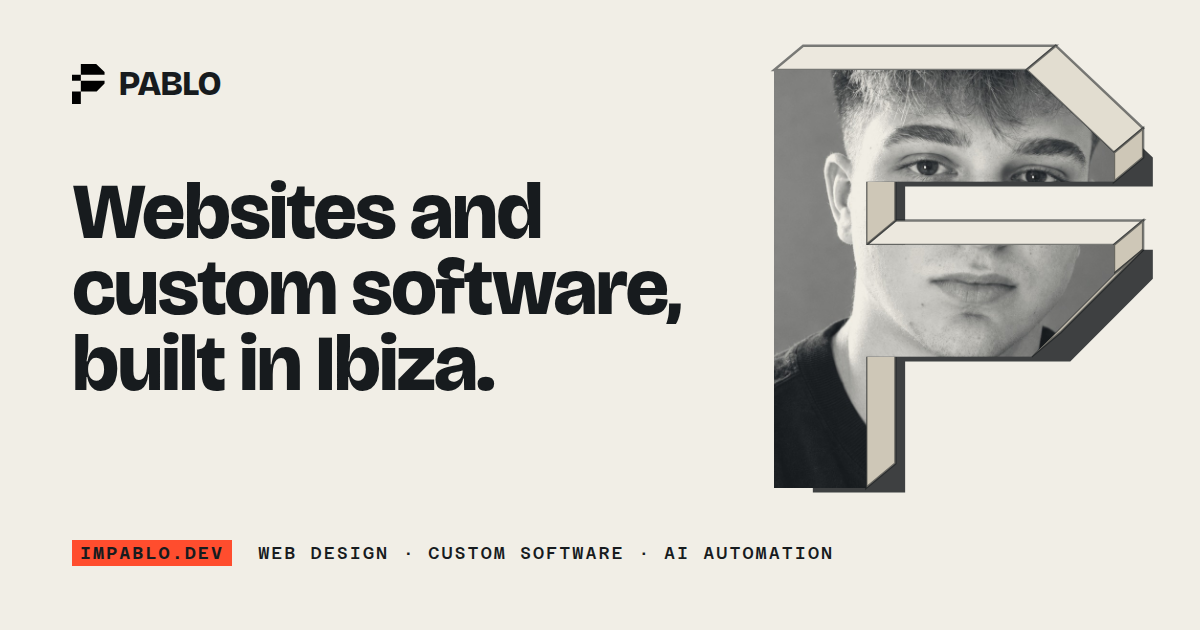
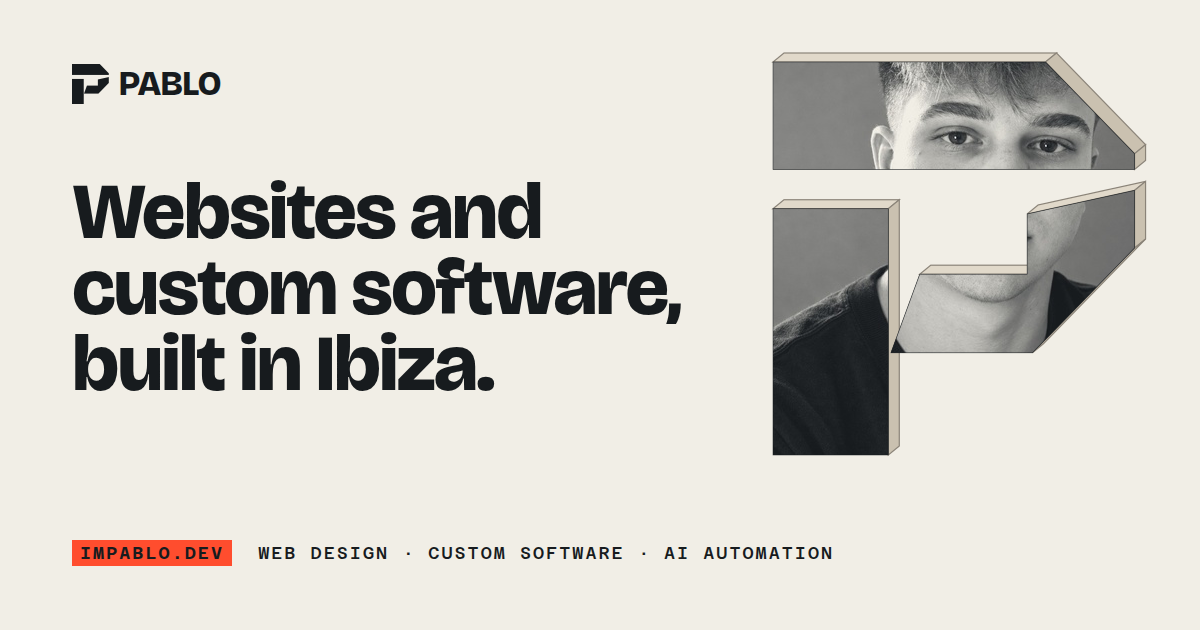
chore: update monogram.

Changed region(s): [[0.6167, 0.0603, 0.9867, 0.7841], [0.0617, 0.0905, 0.0925, 0.181]]

diff --git a/frontend/app/components/brand/BrandMark.vue b/frontend/app/components/brand/BrandMark.vue
@@ -1,12 +1,17 @@
 <script setup lang="ts">
-// The modular "P" from pablo-brand-kit/assets/logo-mark.svg. Geometry is fixed:
-// never stretch, rotate, outline or shadow it (brand rules).
-withDefaults(defineProps<{ title?: string }>(), { title: undefined })
+// The three-piece P from pablo-brand-kit/assets/logo-mark.svg.
+defineProps<{ title?: string; missingMiddle?: boolean }>()
 </script>
 
 <template>
-  <svg viewBox="0 0 140 172" :role="title ? 'img' : undefined" :aria-hidden="title ? undefined : 'true'" fill="currentColor">
+  <svg viewBox="0 0 138 150" :role="title ? 'img' : undefined" :aria-hidden="title ? undefined : 'true'" fill="currentColor">
     <title v-if="title">{{ title }}</title>
-    <path fill-rule="evenodd" d="M 0,0 H 104 L 140,34 V 46 H 0 Z M 0,72 H 140 V 84 L 106,118 H 0 Z M 0,0 H 38 V 172 H 0 Z" />
+    <path d="M 0 0 H 104 L 138 35 V 41 H 0 Z M 0 56 H 44 V 150 H 0 Z" />
+    <path
+      d="M 45 111 L 56 81 H 97 V 58 L 138 49 V 71 L 99 111 Z"
+      :class="{ 'fill-none stroke-faint': missingMiddle }"
+      stroke-width="1.5"
+      stroke-dasharray="4 4"
+    />
   </svg>
 </template>

diff --git a/frontend/app/error.vue b/frontend/app/error.vue
@@ -25,13 +25,8 @@ useSeoMeta({ robots: 'noindex' })
           <NuxtLinkLocale to="projects" class="link-more" @click="clearError()">{{ t('cta.projects') }} <ChevronRight aria-hidden="true" /></NuxtLinkLocale>
         </div>
       </div>
-      <!-- The P with its middle bar missing. -->
       <div class="hidden lg:col-span-3 lg:col-start-10 lg:block" aria-hidden="true">
-        <svg viewBox="0 0 140 172" class="w-full text-ink">
-          <path d="M 0,0 H 104 L 140,34 V 46 H 0 Z" fill="currentColor" />
-          <path d="M 0,72 H 140 V 84 L 106,118 H 0 Z" fill="none" stroke="var(--color-faint)" stroke-width="1.5" stroke-dasharray="4 4" />
-          <path d="M 0,0 H 38 V 172 H 0 Z" fill="currentColor" />
-        </svg>
+        <BrandMark class="w-full text-ink" missing-middle />
       </div>
     </section>
   </NuxtLayout>

diff --git a/frontend/app/app.vue b/frontend/app/app.vue
@@ -28,8 +28,8 @@ useSchemaOrg([
     'name': t('schema.businessName'),
     'description': t('seo.home.description'),
     'url': siteUrl,
-    'image': `${siteUrl}/og/og-es.png`,
-    'logo': `${siteUrl}/icon-512.png`,
+    'image': `${siteUrl}/og/og-es.png?v=2`,
+    'logo': `${siteUrl}/icon-512.png?v=5`,
     'founder': { '@type': 'Person', 'name': 'Pablo Diez' },
     'address': { '@type': 'PostalAddress', 'addressLocality': 'Ibiza', 'addressRegion': 'Illes Balears', 'addressCountry': 'ES' },
     'areaServed': [{ '@type': 'Place', 'name': 'Ibiza' }, { '@type': 'Country', 'name': 'España' }],

diff --git a/frontend/app/components/brand/BrandLogo.vue b/frontend/app/components/brand/BrandLogo.vue
@@ -1,7 +1,7 @@
 <script setup lang="ts">
 // The binding brand: modular P mark + PABLO wordmark, set in live type so it stays crisp.
 // Lockup from the brand kit (logo-main.svg): cap height ~0.63 of the mark, caps
-// hung from the top of the mark (the spine runs on below the baseline), gap ~0.48em.
+// hung from the top of the mark (the foot extends below the baseline), gap ~0.48em.
 // Gantari at line-height 1 starts its caps 0.17em into the line box, hence -0.11em.
 </script>
 

diff --git a/frontend/app/composables/usePageSeo.ts b/frontend/app/composables/usePageSeo.ts
@@ -13,7 +13,7 @@ export function usePageSeo(o: PageSeo) {
   const { locale } = useI18n()
   const { public: { siteUrl } } = useRuntimeConfig()
   const abs = (u: string) => (u.startsWith('http') ? u : `${siteUrl}${u}`)
-  const image = abs(o.image ?? `/og/og-${locale.value}.png`)
+  const image = abs(o.image ?? `/og/og-${locale.value}.png?v=2`)
 
   useSeoMeta({
     title: o.title,

diff --git a/frontend/pablo-brand-kit/README.md b/frontend/pablo-brand-kit/README.md
@@ -6,7 +6,7 @@ Brand identity starter kit for Pablo's personal brand.
 
 **PABLO** is the umbrella identity. The descriptor **INDEPENDENT BUILDER** communicates an independent maker who thinks across product, technology and business without locking the brand into a single stack or service.
 
-The visual language combines editorial typography, modular geometry and a restrained technical vocabulary. The monogram is a custom directional “P” made from two forward-facing modules and one continuous vertical spine. It is designed to work independently of the wordmark.
+The visual language combines editorial typography, modular geometry and a restrained technical vocabulary. The monogram is a custom directional “P” formed by three separated pieces: a chamfered top bar, a vertical foot and a rising middle section. The geometry follows the monogram in `brandboard.png`. It is designed to work independently of the wordmark.
 
 Tagline: **IDEAS INTO SYSTEMS.**
 
@@ -57,7 +57,7 @@ Both are available through Google Fonts. The supplied CSS loads them remotely; i
 
 - Use the complete logo on presentations, proposals, website headers and profile covers.
 - Use the standalone mark for avatars, favicon, watermark and small interface placements.
-- Keep clear space around the mark at least equal to the width of its vertical spine.
+- Keep clear space around the mark at least equal to the width of its vertical foot.
 - Do not stretch, rotate, add shadows, outline the mark, or recolor it with arbitrary gradients.
 - For dark backgrounds, use `logo-reversed.svg`.
 - Prefer generous whitespace, thin rules, modular grids and a small number of strong typographic moments.

diff --git a/PRODUCT.md b/PRODUCT.md
@@ -57,7 +57,7 @@ Constraints:
 
 ## Brand Commitments
 
-- **Binding: the P logo only** (owner decision, 2026-11-23). The modular directional "P" mark (`frontend/pablo-brand-kit/assets/logo-mark.svg`: two forward-facing modules with 45° chamfers on one continuous vertical spine) plus the **PABLO** wordmark. Never stretch, rotate, outline, shadow or gradient-recolour the mark; clear space at least the width of its spine. On dark grounds it is set in the page's off-white.
+- **Binding: the P logo only** (owner decision, 2026-11-23). The modular directional "P" mark (`frontend/pablo-brand-kit/assets/logo-mark.svg`: the three-piece monogram from the kit's `brandboard.png`) plus the **PABLO** wordmark. Never stretch, rotate, outline, shadow or gradient-recolour the mark; clear space at least the width of its vertical foot. On dark grounds it is set in the page's off-white.
 - The brand kit includes Graphite Ink, Warm Paper, Signal Orange (`#FF4D2E`), Ultramarine, Oxide, Bricolage Grotesque, Azeret Mono, the descriptor INDEPENDENT BUILDER and the tagline. DESIGN.md defines the site's visual system.
 - **Owner's taste for this redesign:** dark and premium, Apple-keynote calm and finish, motion where it earns its place, real personality; never a cold luxury agency, never a flat generic landing. Real material (recordings of shipped products, real data) over illustration.
 - Name in copy: **Pablo Diez**. GitHub handle `an0mal1a`. Domain `impablo.dev`.

diff --git a/DESIGN.md b/DESIGN.md
@@ -228,7 +228,7 @@ Depth comes from light, not borders. Surfaces are flat colour steps (`ground` to
 - **Screens** (`--radius-screen`, 10-16px fluid): product recordings, project figures, the empty graph placeholder.
 - **Panels** (`--radius-panel`, 20px): raised sheets.
 - **Fields** (12px) and the checkbox (6px). Graph cells are 10px squares with 2.5px corners.
-- **The P mark** is fixed geometry from the brand kit. Two forward modules with 45-degree chamfers share one continuous spine. The site lockup uses `ink` on dark grounds. The favicon, app icons, accent variants in the brand kit and social cards use Signal Orange (`#FF4D2E`).
+- **The P mark** is fixed geometry from the brand kit. A chamfered top bar, a vertical foot and a rising middle section form the three separated pieces shown in the kit's `brandboard.png`. The site lockup uses `ink` on dark grounds. The favicon, app icons, accent variants in the brand kit and social cards use Signal Orange (`#FF4D2E`).
 
 ## Components
 
